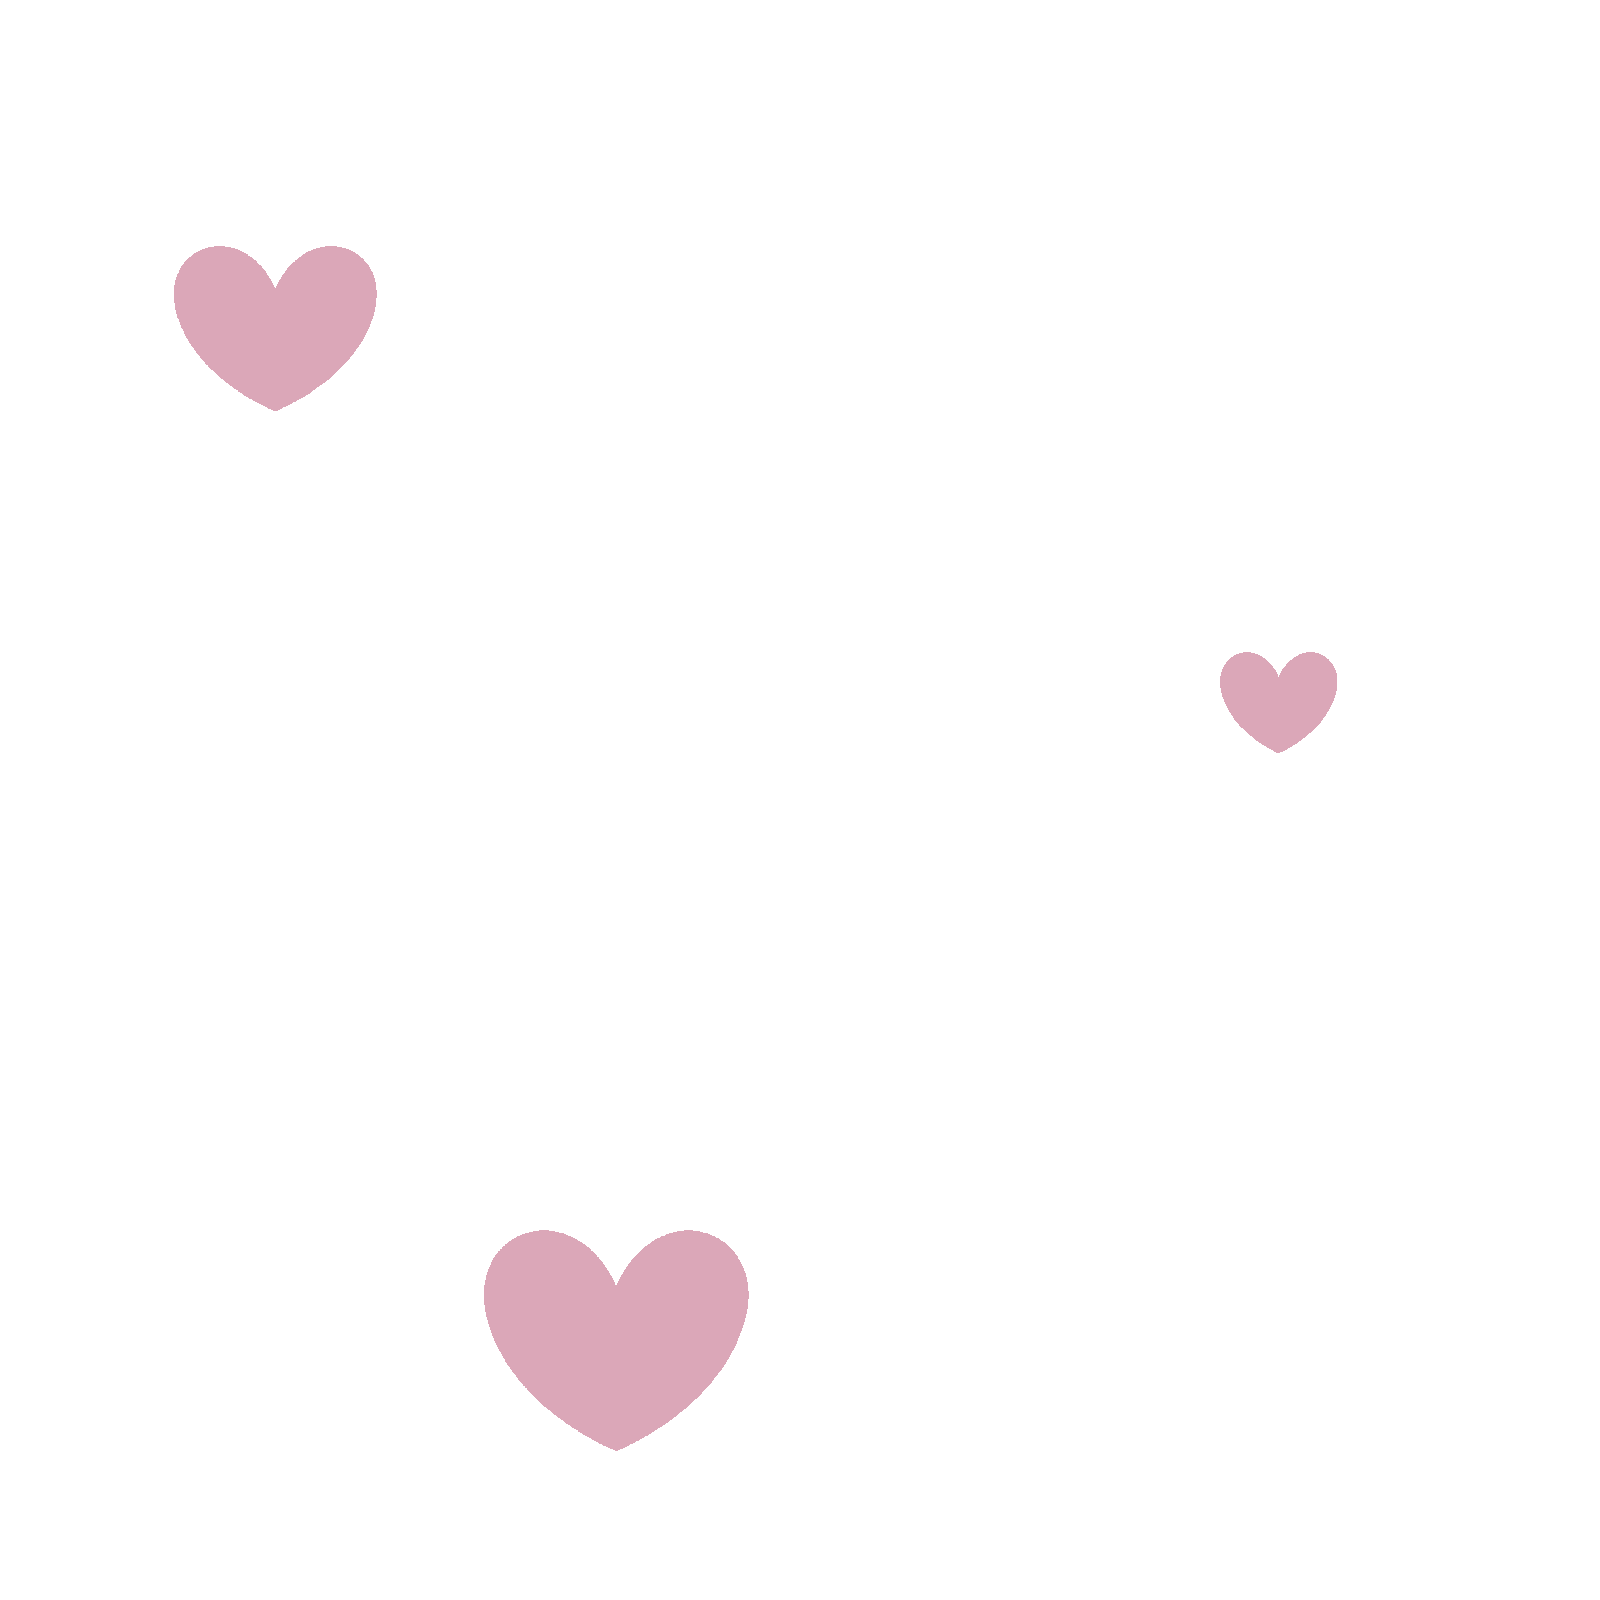
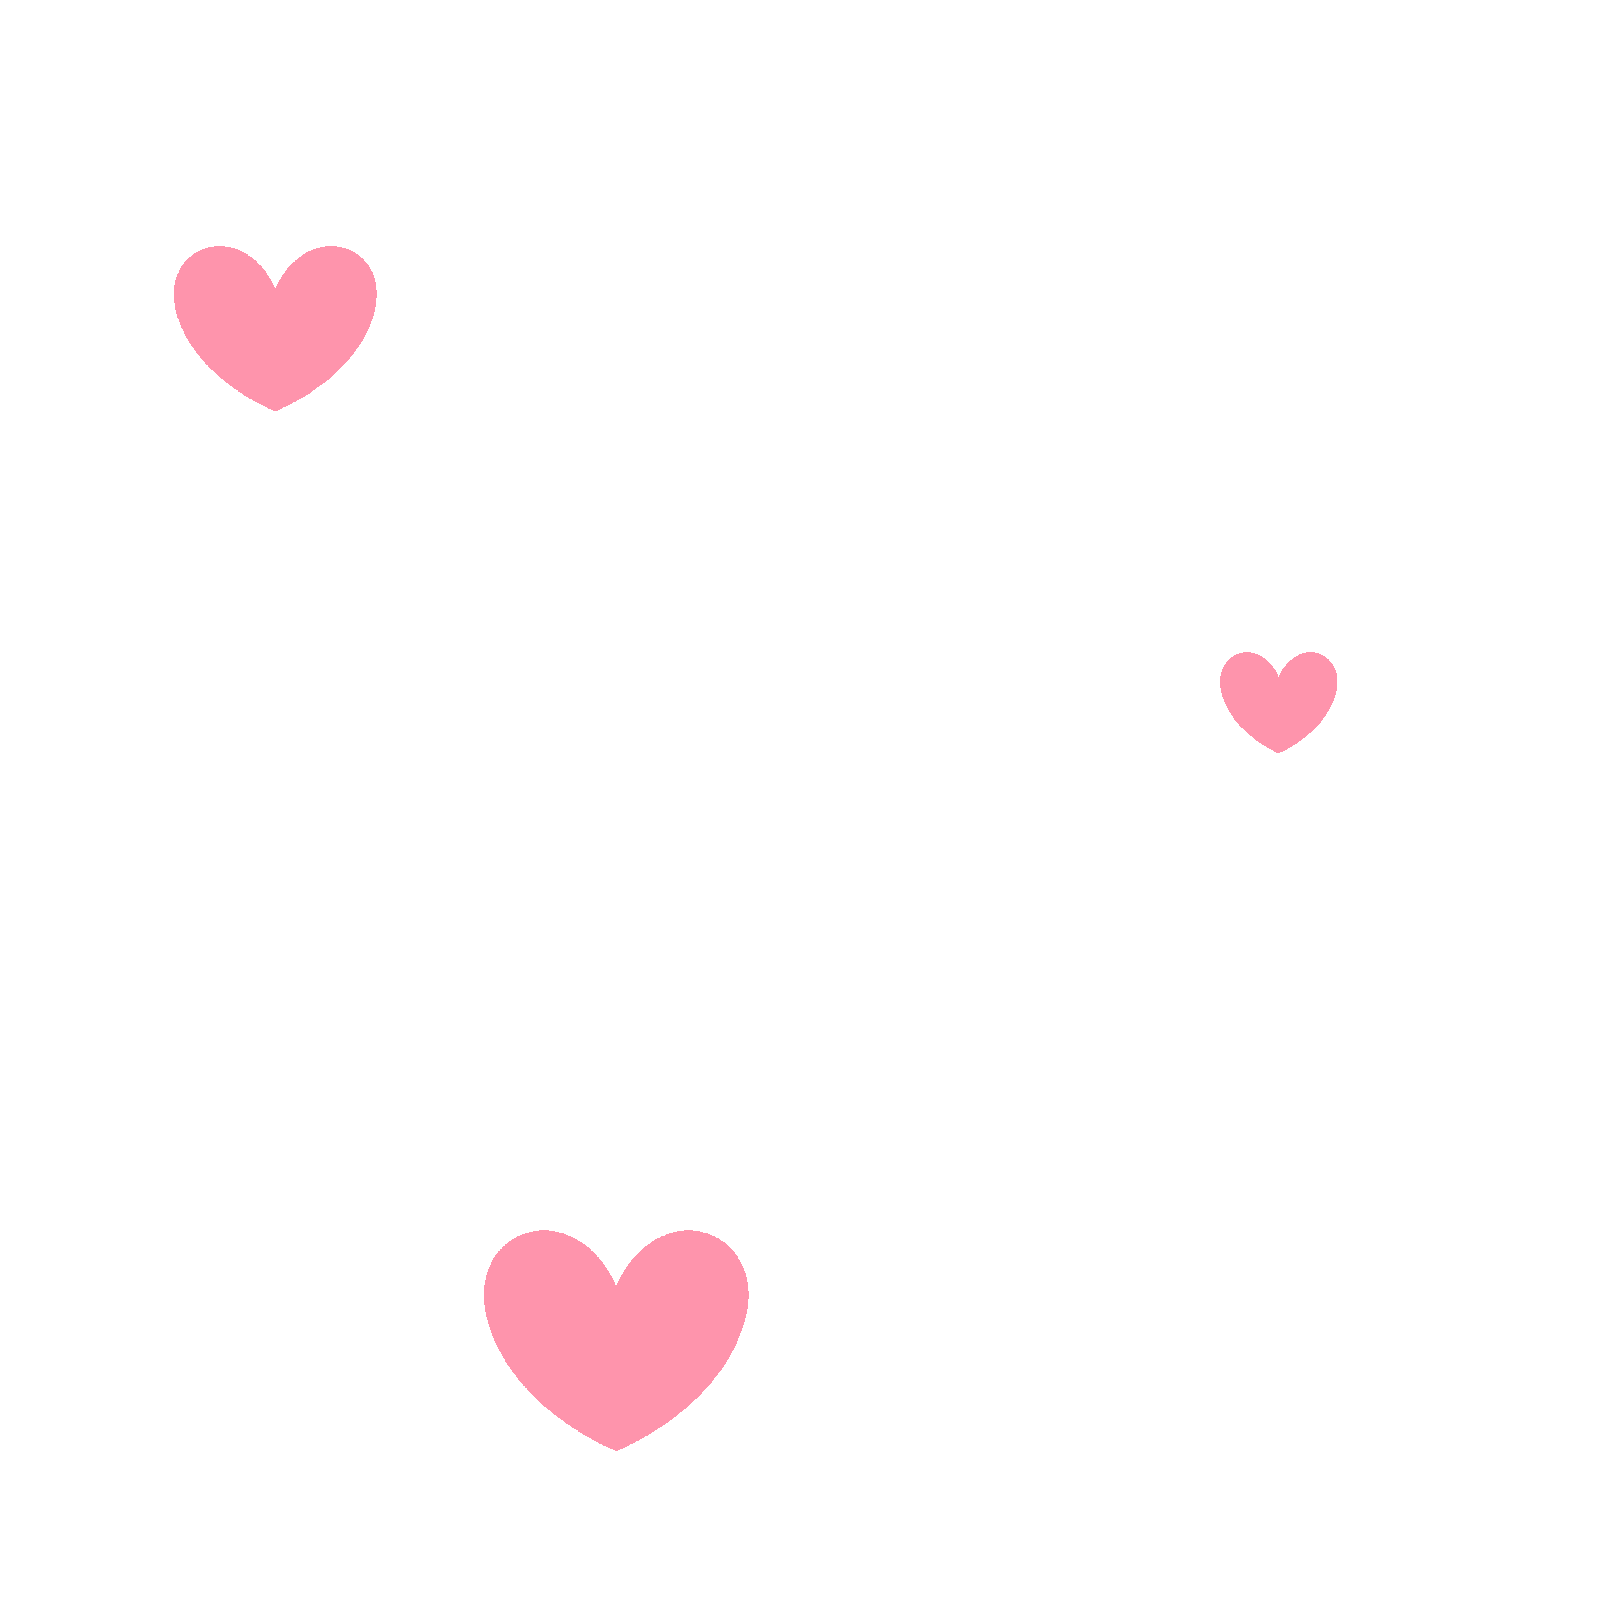
colorcorreccion

Changed region(s): [[0.2812, 0.75, 0.4688, 0.9062], [0.0938, 0.1562, 0.25, 0.2812], [0.75, 0.4062, 0.8438, 0.4688]]

diff --git a/recursos/scriptInvitacion.js b/recursos/scriptInvitacion.js
@@ -71,7 +71,7 @@ fondoIntro.style.opacity = "1"; // muestra el contenido del documento
  let arranque = Date.now(); // recordar la hora de inicio
   let cronometro = setInterval(function() {
     let tiempo = Date.now() - arranque; // ¿Cuánto tiempo pasó desde el principio?
-    if (tiempo >= 3000) {
+    if (tiempo >= 4000) {
       clearInterval(cronometro); // terminar la animación después de 2 segundos
       return;
     }
@@ -82,8 +82,8 @@ fondoIntro.style.opacity = "1"; // muestra el contenido del documento
   // mientras timePassed va de 0 a 2000
   // Opacity obtiene valores de 1 a 0
   function animacion(tiempo) { 
-    if (200<=tiempo && tiempo<=2200) {
-     VJ1.style.opacity = (tiempo-200)/2000; // en la seccion "fondoInvitacion" se altera la propiedad css width  
+    if (400<=tiempo && tiempo<=2500) {
+     VJ1.style.opacity = (tiempo-400)/2100; // en la seccion "fondoInvitacion" se altera la propiedad css width  
     } 
     if (500<=tiempo && tiempo<=3000) {
       VJ3.style.opacity = (tiempo-500)/2500; // en la seccion "fondoInvitacion" se altera la propiedad css width
@@ -94,8 +94,8 @@ fondoIntro.style.opacity = "1"; // muestra el contenido del documento
     if (1200<=tiempo && tiempo<=2800) {
       VJ2.style.opacity = (tiempo-1200)/1600; // en la seccion "fondoInvitacion" se altera la propiedad css width
     } 
-    if (500<=tiempo && tiempo<=3000) {
-      anillos0.style.opacity = (tiempo-500)/2500; // en la seccion "fondoInvitacion" se altera la propiedad css width
+    if (2500<=tiempo && tiempo<=4000) {
+      anillos0.style.opacity = (tiempo-2500)/1500; // en la seccion "fondoInvitacion" se altera la propiedad css width
     } 
   }
 
@@ -189,7 +189,7 @@ function clickAnillo0() {
    document.getElementById("fondoIntro").style.display = "none";
    abrirInvitacion();
 
- },2500); // el retraso definido en milisegundos
+ },2200); // el retraso definido en milisegundos
 }
 
 function abrirInvitacion(){

diff --git a/recursos/estilos.css b/recursos/estilos.css
@@ -53,7 +53,7 @@ html, body { /*afecta a todo el cuerpo del documento*/
     width: 100vw; /*se toma como ancho de seccion todo el contenido*/
     height: 100%;/*se toma como alto de seccion todo el contenido*/
     border: none;
-    background: rgb(255, 249, 230); /*color de fondo*/
+    background: rgb(255, 213, 220); /*color de fondo*/
     background-size:35vw;
     position: static; /*Se posiciona en la ultima parte de atras*/
     display: flex;
@@ -287,7 +287,7 @@ html, body { /*afecta a todo el cuerpo del documento*/
     width: 100vw; /*se toma como ancho de seccion todo el contenido*/
     height: 100%;/*se toma como alto de seccion todo el contenido*/
     border: none;
-    background: rgb(255, 230, 234); /*color de fondo*/
+    background: rgb(255, 213, 220); /*color de fondo*/
     background-size:35vw;
     position: static; /*Se posiciona en la ultima parte de atras*/
     display: flex;

diff --git a/invitacion.html b/invitacion.html
@@ -30,7 +30,7 @@
             <img src="recursos/Invitacion/VJ2.jpeg" alt="Foto2" id="VJ2">
             <img src="recursos/Invitacion/VJ3.jpeg" alt="Foto3" id="VJ3">
             <img src="recursos/Invitacion/VJ4.jpeg" alt="Foto4" id="VJ4">
-</div>
+ </div>
     </section> 
 
     <section id="fondoInvitacion">
